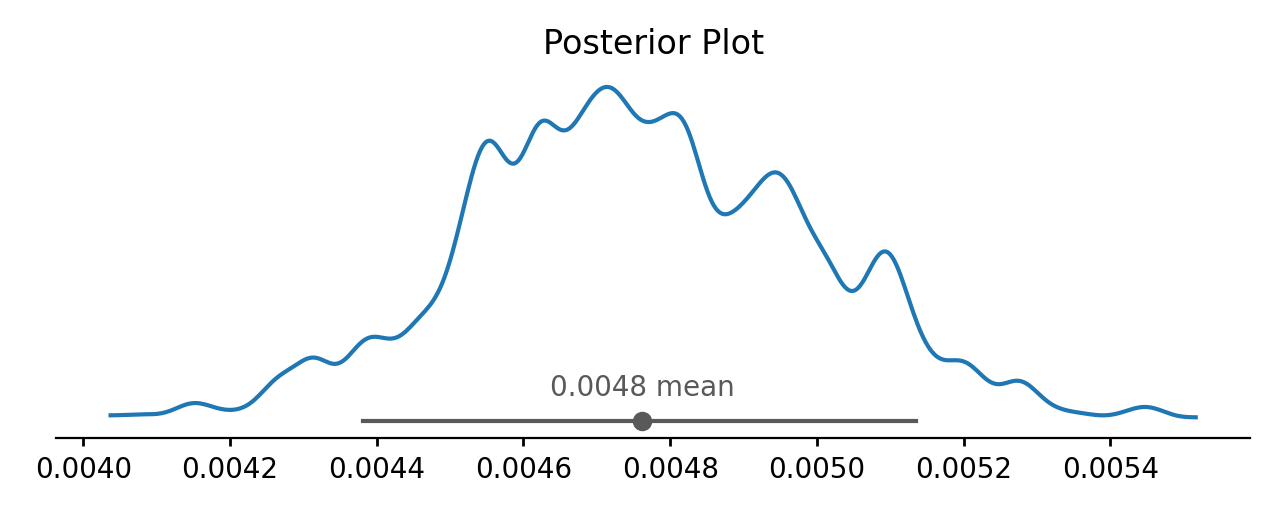
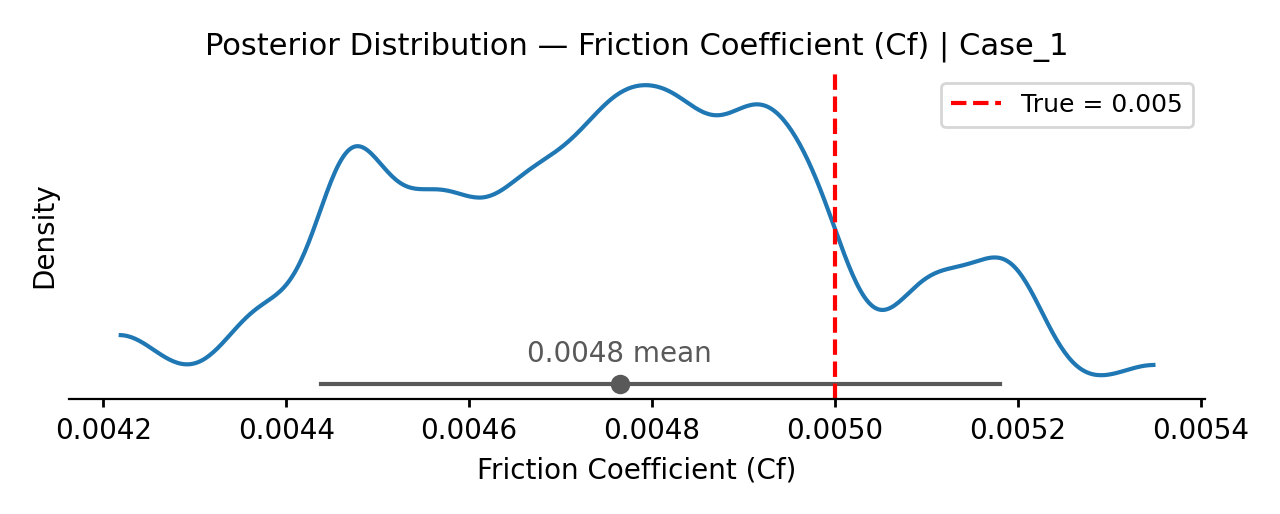
multi param is working. going to let it run a long case over the next day or so

diff --git a/HyperReact1D_2param.py b/HyperReact1D_2param.py
@@ -1244,62 +1244,80 @@ def run_MCMC_case(caseConfig):
         f.write(f"Chains = {set_chains}\n")
         f.write(f"Cores = {set_cores}\n")
 
+    param_labels = {
+            "Cf": "Friction Coefficient (Cf)",
+            "eta_Total": "Combustion Efficiency (\u03b7_Total)"
+        }
+    true_values = {
+            "Cf": set_True_Cf,
+            "eta_Total": set_True_eta_Total
+        }
+
     for param in summary.index:
-        # 1. trace plot
+        label = param_labels.get(param, param)
+        true_val = true_values.get(param)
+
         az.plot_trace(trace, var_names=[param])
-        plt.title("Trace Plot")
+        plt.suptitle(f"Trace Plot \u2014 {label} | {nameofCase}", fontsize=11, y=1.01)
         plt.tight_layout()
-        TracePlot_path = case_folder / f"{param}_{nameofCase}_Trace.png"
-        plt.savefig(TracePlot_path,dpi=200)
+        plt.savefig(case_folder / f"{param}_{nameofCase}_Trace.png", dpi=200)
         plt.close()
 
-        # 2. posterior plot with true value
         az.plot_dist(trace, var_names=[param])
-        plt.title("Posterior Plot")
+        if true_val is not None:
+            plt.axvline(true_val, color="red", linestyle="--", linewidth=1.5, label=f"True = {true_val}")
+            plt.legend(fontsize=9)
+        plt.xlabel(label, fontsize=10)
+        plt.ylabel("Density", fontsize=10)
+        plt.title(f"Posterior Distribution \u2014 {label} | {nameofCase}", fontsize=11)
         plt.tight_layout()
-        PosteriorPlot_path = case_folder / f"{param}_{nameofCase}_Posterior.png"
-        plt.savefig(PosteriorPlot_path,dpi=200)
+        plt.savefig(case_folder / f"{param}_{nameofCase}_Posterior.png", dpi=200)
         plt.close()
 
-        # 3. autocorrelation plot
         az.plot_autocorr(trace, var_names=[param])
-        plt.title("AutoCorrelationPlot")
+        plt.suptitle(f"Autocorrelation \u2014 {label} | {nameofCase}", fontsize=11, y=1.01)
         plt.tight_layout()
-        AutocorrPlot_path = case_folder / f"{param}_{nameofCase}_Autocorr.png"
-        plt.savefig(AutocorrPlot_path,dpi=200)
+        plt.savefig(case_folder / f"{param}_{nameofCase}_Autocorr.png", dpi=200)
         plt.close()
 
-    # 4. running mean plot
-    running_mean_cf = np.cumsum(cf_samples) / np.arange(1, len(cf_samples) + 1)    
-    plt.figure()
-    plt.plot(running_mean_cf)
-    plt.axhline(set_True_Cf, linestyle="--", label="True Cf")
-    plt.xlabel("Sample")
-    plt.ylabel("Running mean of Cf")
-    plt.legend()
-    plt.grid(True)
+    running_mean_cf = np.cumsum(cf_samples) / np.arange(1, len(cf_samples) + 1)
+    plt.figure(figsize=(8, 4))
+    plt.plot(running_mean_cf, color="steelblue", label="Running mean")
+    plt.axhline(set_True_Cf, color="red", linestyle="--", linewidth=1.5, label=f"True Cf = {set_True_Cf}")
+    plt.xlabel("Sample", fontsize=11)
+    plt.ylabel("Cf", fontsize=11)
+    plt.title(f"Running Mean \u2014 Friction Coefficient | {nameofCase}", fontsize=12)
+    plt.legend(fontsize=10)
+    plt.grid(True, alpha=0.4)
     plt.tight_layout()
-    RunningMeanPlot_path = case_folder / f"Cf_{nameofCase}_Running_mean.png"
-    plt.savefig(RunningMeanPlot_path,dpi=200)
+    plt.savefig(case_folder / f"Cf_{nameofCase}_Running_mean.png", dpi=200)
     plt.close()
 
-    running_mean_eta_Total = np.cumsum(eta_Total_samples) / np.arange(1, len(eta_Total_samples) + 1)    
-    plt.figure()
-    plt.plot(running_mean_eta_Total)
-    plt.axhline(set_True_eta_Total, linestyle="--", label="True Eta Total")
-    plt.xlabel("Sample")
-    plt.ylabel("Running mean of Eta Total")
-    plt.legend()
-    plt.grid(True)
+    running_mean_eta_Total = np.cumsum(eta_Total_samples) / np.arange(1, len(eta_Total_samples) + 1)
+    plt.figure(figsize=(8, 4))
+    plt.plot(running_mean_eta_Total, color="darkorange", label="Running mean")
+    plt.axhline(set_True_eta_Total, color="red", linestyle="--", linewidth=1.5, label=f"True \u03b7 ={set_True_eta_Total}")
+    plt.xlabel("Sample", fontsize=11)
+    plt.ylabel("\u03b7_Total", fontsize=11)
+    plt.title(f"Running Mean \u2014 Combustion Efficiency | {nameofCase}", fontsize=12)
+    plt.legend(fontsize=10)
+    plt.grid(True, alpha=0.4)
     plt.tight_layout()
-    RunningMeanPlot_path = case_folder / f"Eta_Total_{nameofCase}_Running_mean.png"
-    plt.savefig(RunningMeanPlot_path,dpi=200)
+    plt.savefig(case_folder / f"Eta_Total_{nameofCase}_Running_mean.png", dpi=200)
     plt.close()
 
-    az.plot_pair(trace,var_names = ["Cf","eta_Total"])
+    fig, ax = plt.subplots(figsize=(6, 6))
+    ax.scatter(cf_samples, eta_Total_samples, alpha=0.3, s=5, color="steelblue", label="Posterior samples")
+    ax.axvline(set_True_Cf, color="red", linestyle="--", linewidth=1.5, label=f"True Cf = {set_True_Cf}")
+    ax.axhline(set_True_eta_Total, color="orange", linestyle="--", linewidth=1.5, label=f"True \u03b7 ={set_True_eta_Total}")
+    ax.scatter([set_True_Cf], [set_True_eta_Total], color="red", s=100, zorder=5, marker="*")
+    ax.set_xlabel("Friction Coefficient (Cf)", fontsize=12)
+    ax.set_ylabel("Combustion Efficiency (\u03b7_Total)", fontsize=12)
+    ax.set_title(f"Joint Posterior \u2014 {nameofCase}\nCorrelation: {corr:.3f}", fontsize=13)
+    ax.legend(fontsize=9)
+    ax.grid(True, alpha=0.3)
     plt.tight_layout()
-    PairPlot_path = case_folder / f"PairPlot_{nameofCase}.png"
-    plt.savefig(PairPlot_path,dpi=200)
+    plt.savefig(case_folder / f"PairPlot_{nameofCase}.png", dpi=200)
     plt.close()
 
 #cases and running model 
@@ -1324,55 +1342,12 @@ if __name__ == "__main__":
             "eta_Total_Scaling":0.1,
 
             "errNorm_sigma" : 1e5,
-            "Draws" : 500,
-            "Tune" : 500,
-            "Chains" : 4 ,
-            "Cores" : 4
-            },  
+            "Draws" : 30000,
+            "Tune" : 2000,
+            "Chains" : 10 ,
+            "Cores" : 10
+            }
 
-        "Case_2": {
-            "Case_Name": "Case_2",
-            "Parameters": ["Cf", "eta_Total"],
-            "True_Cf": 0.005,
-            "Cf_Prior_mu" : 0.00475,
-            "Cf_Scale" : 0.001,
-            "Cf_Scaling" : 0.25,
-            "Cf_Prior_sigma" : (0.05 * 0.005),
-
-            "True_eta_Total" : 0.8,
-            "eta_Total_Prior_mu": 0.76,
-            "eta_Total_Prior_sigma": (0.05 * 0.8),
-            "eta_Total_Scale" : 0.1,
-            "eta_Total_Scaling":0.25,
-
-            "errNorm_sigma" : 1e5,
-            "Draws" : 500,
-            "Tune" : 500,
-            "Chains" : 4 ,
-            "Cores" : 4
-            },  
-
-        "Case_3": {
-            "Case_Name": "Case_3",
-            "Parameters": ["Cf", "eta_Total"],
-            "True_Cf": 0.005,
-            "Cf_Prior_mu" : 0.00475,
-            "Cf_Scale" : 0.001,
-            "Cf_Scaling" : 0.25,
-            "Cf_Prior_sigma" : (0.05 * 0.005),
-
-            "True_eta_Total" : 0.8,
-            "eta_Total_Prior_mu": 0.76,
-            "eta_Total_Prior_sigma": (0.05 * 0.8),
-            "eta_Total_Scale" : 0.1,
-            "eta_Total_Scaling":0.5,
-
-            "errNorm_sigma" : 1e5,
-            "Draws" : 500,
-            "Tune" : 500,
-            "Chains" : 4 ,
-            "Cores" : 4
-        }
     }
   
 

diff --git a/run_all_cases.py b/run_all_cases.py
@@ -4,8 +4,6 @@ import sys
 
 cases = [
     "Case_1",
-    "Case_2",
-    "Case_3"
 ]
 
 def run_case(CaseName):
